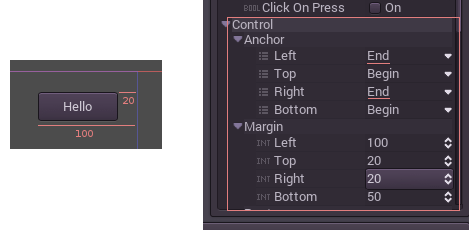
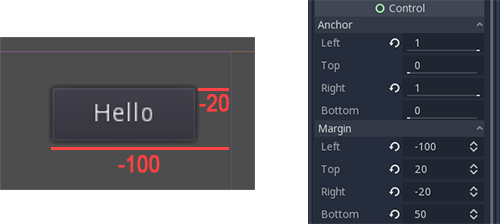
update_size_and_anchors_images

diff --git a/tutorials/gui/size_and_anchors.rst b/tutorials/gui/size_and_anchors.rst
@@ -27,7 +27,7 @@ the parent control or (in case there is no parent control) the viewport.
 .. image:: img/margin.png
 
 When horizontal (left,right) and/or vertical (top,bottom) anchors are
-changed to END, the margin values become relative to the bottom-right
+changed to 1, the margin values become relative to the bottom-right
 corner of the parent control or viewport.
 
 .. image:: img/marginend.png
